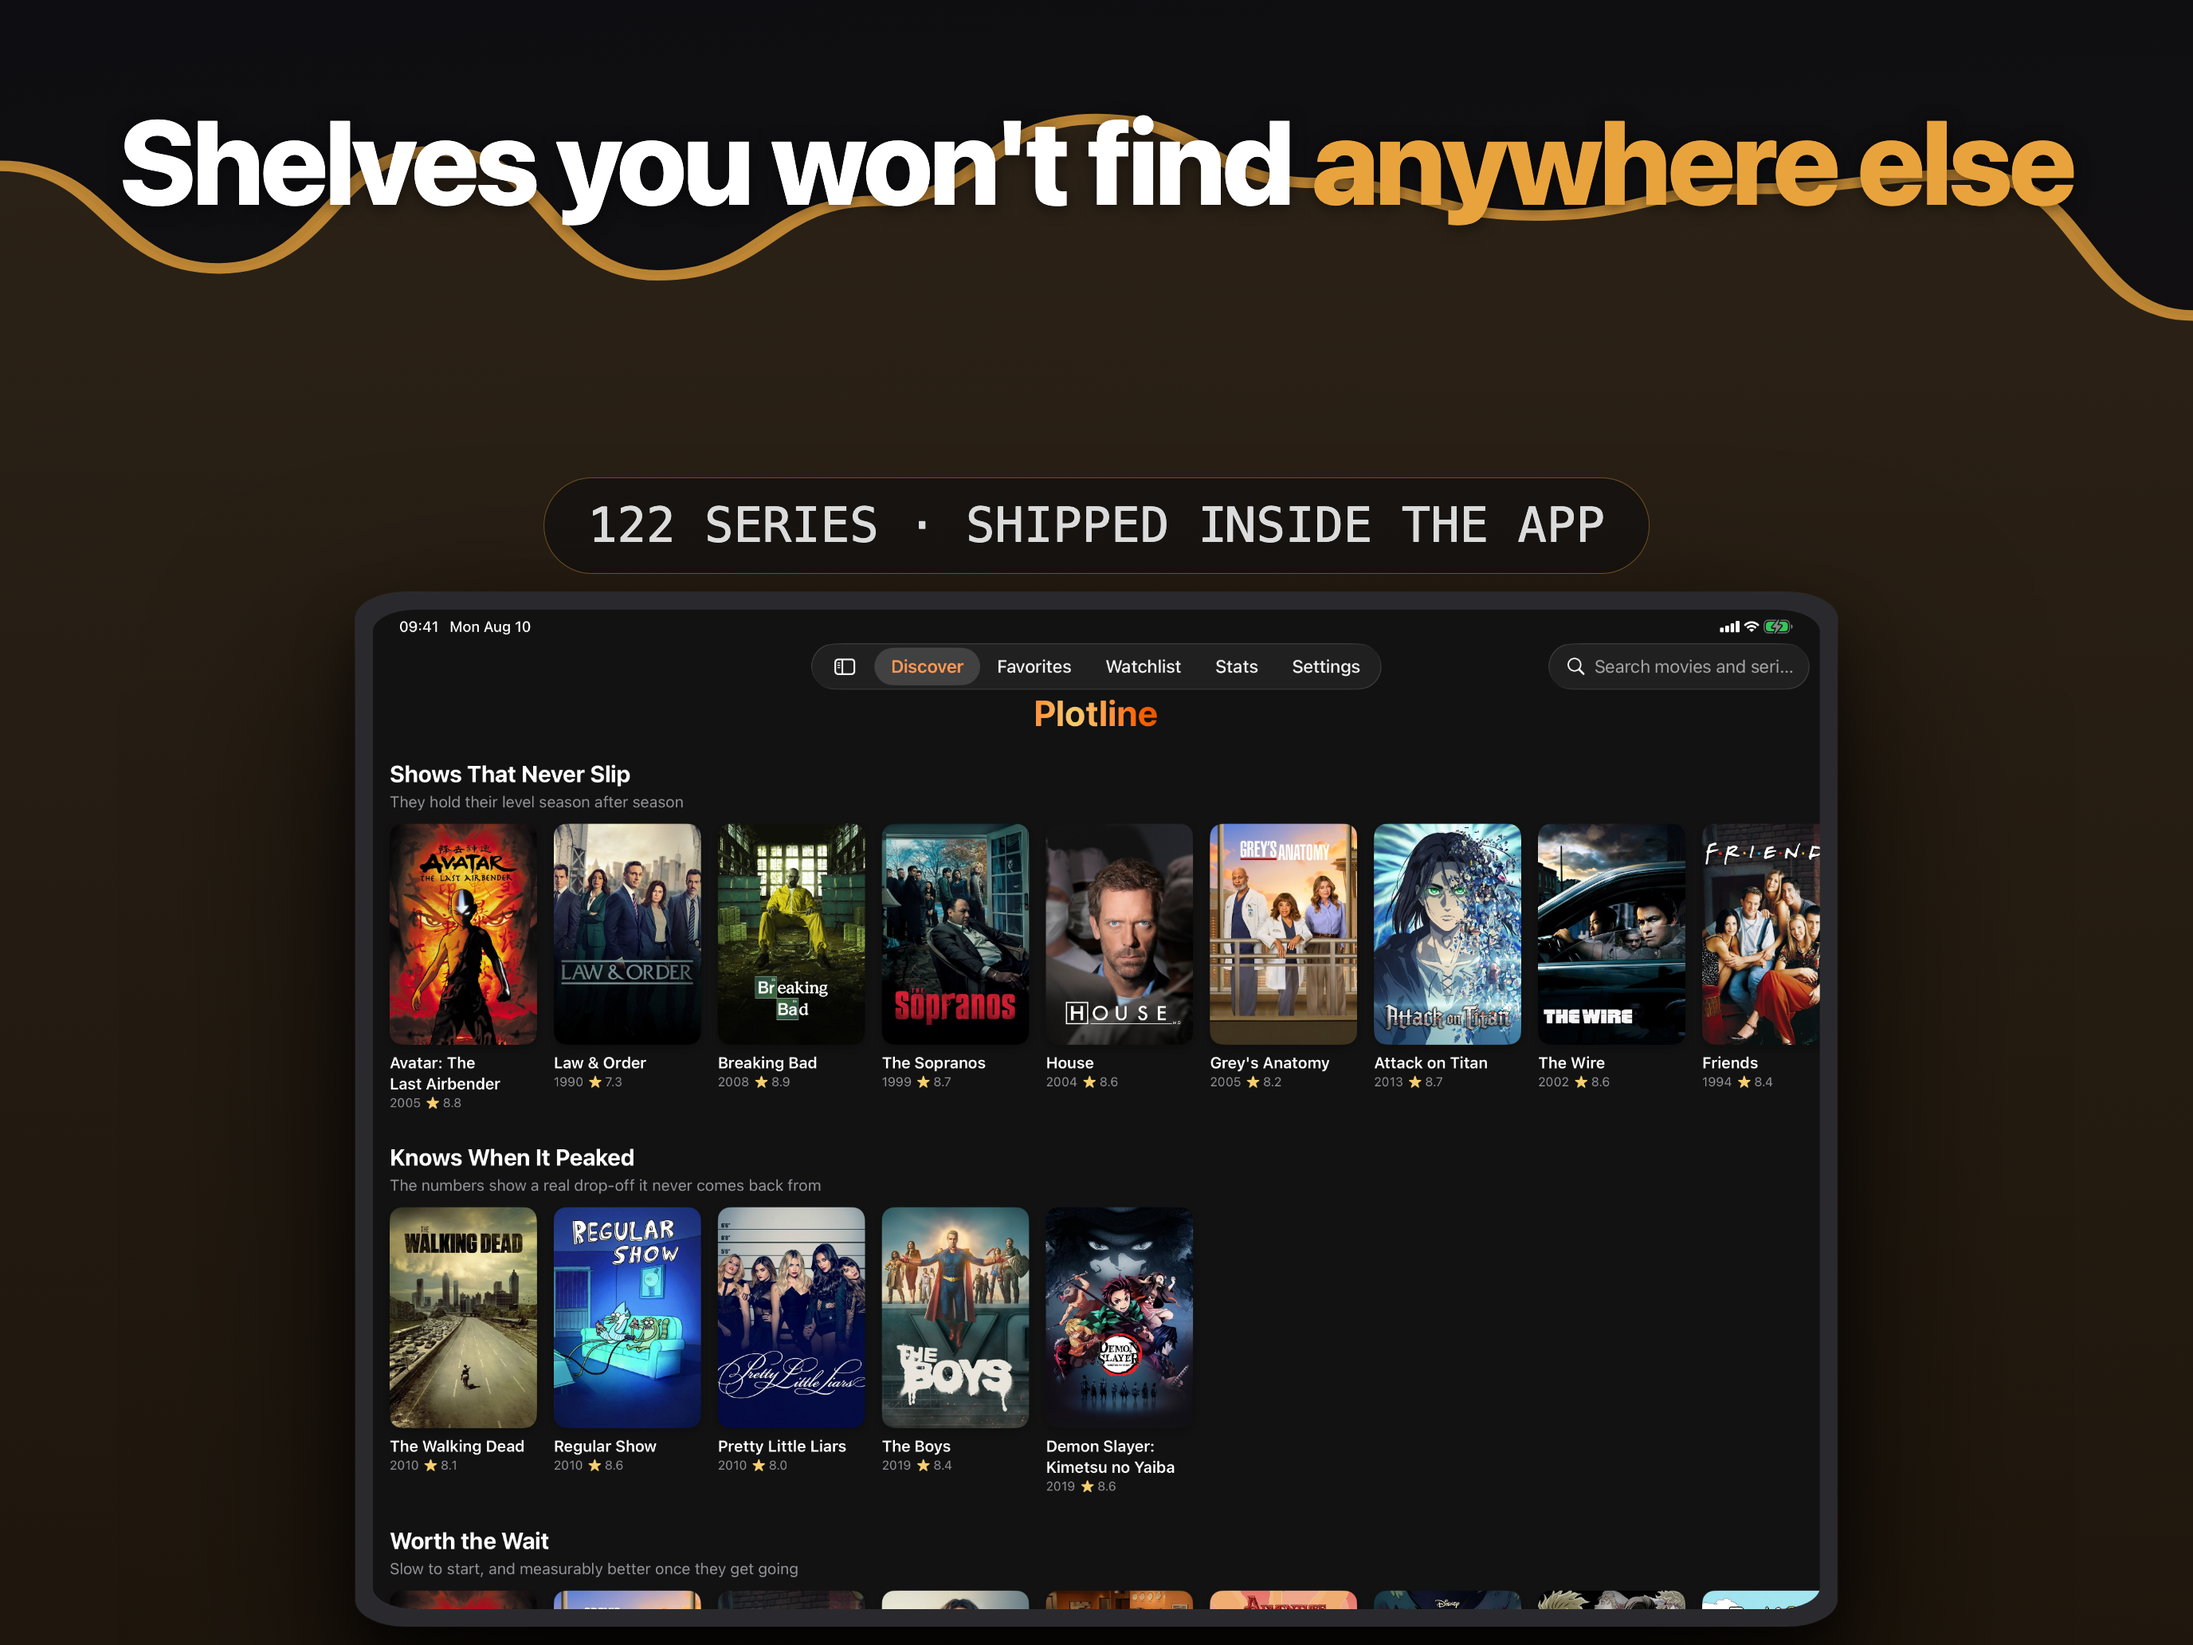
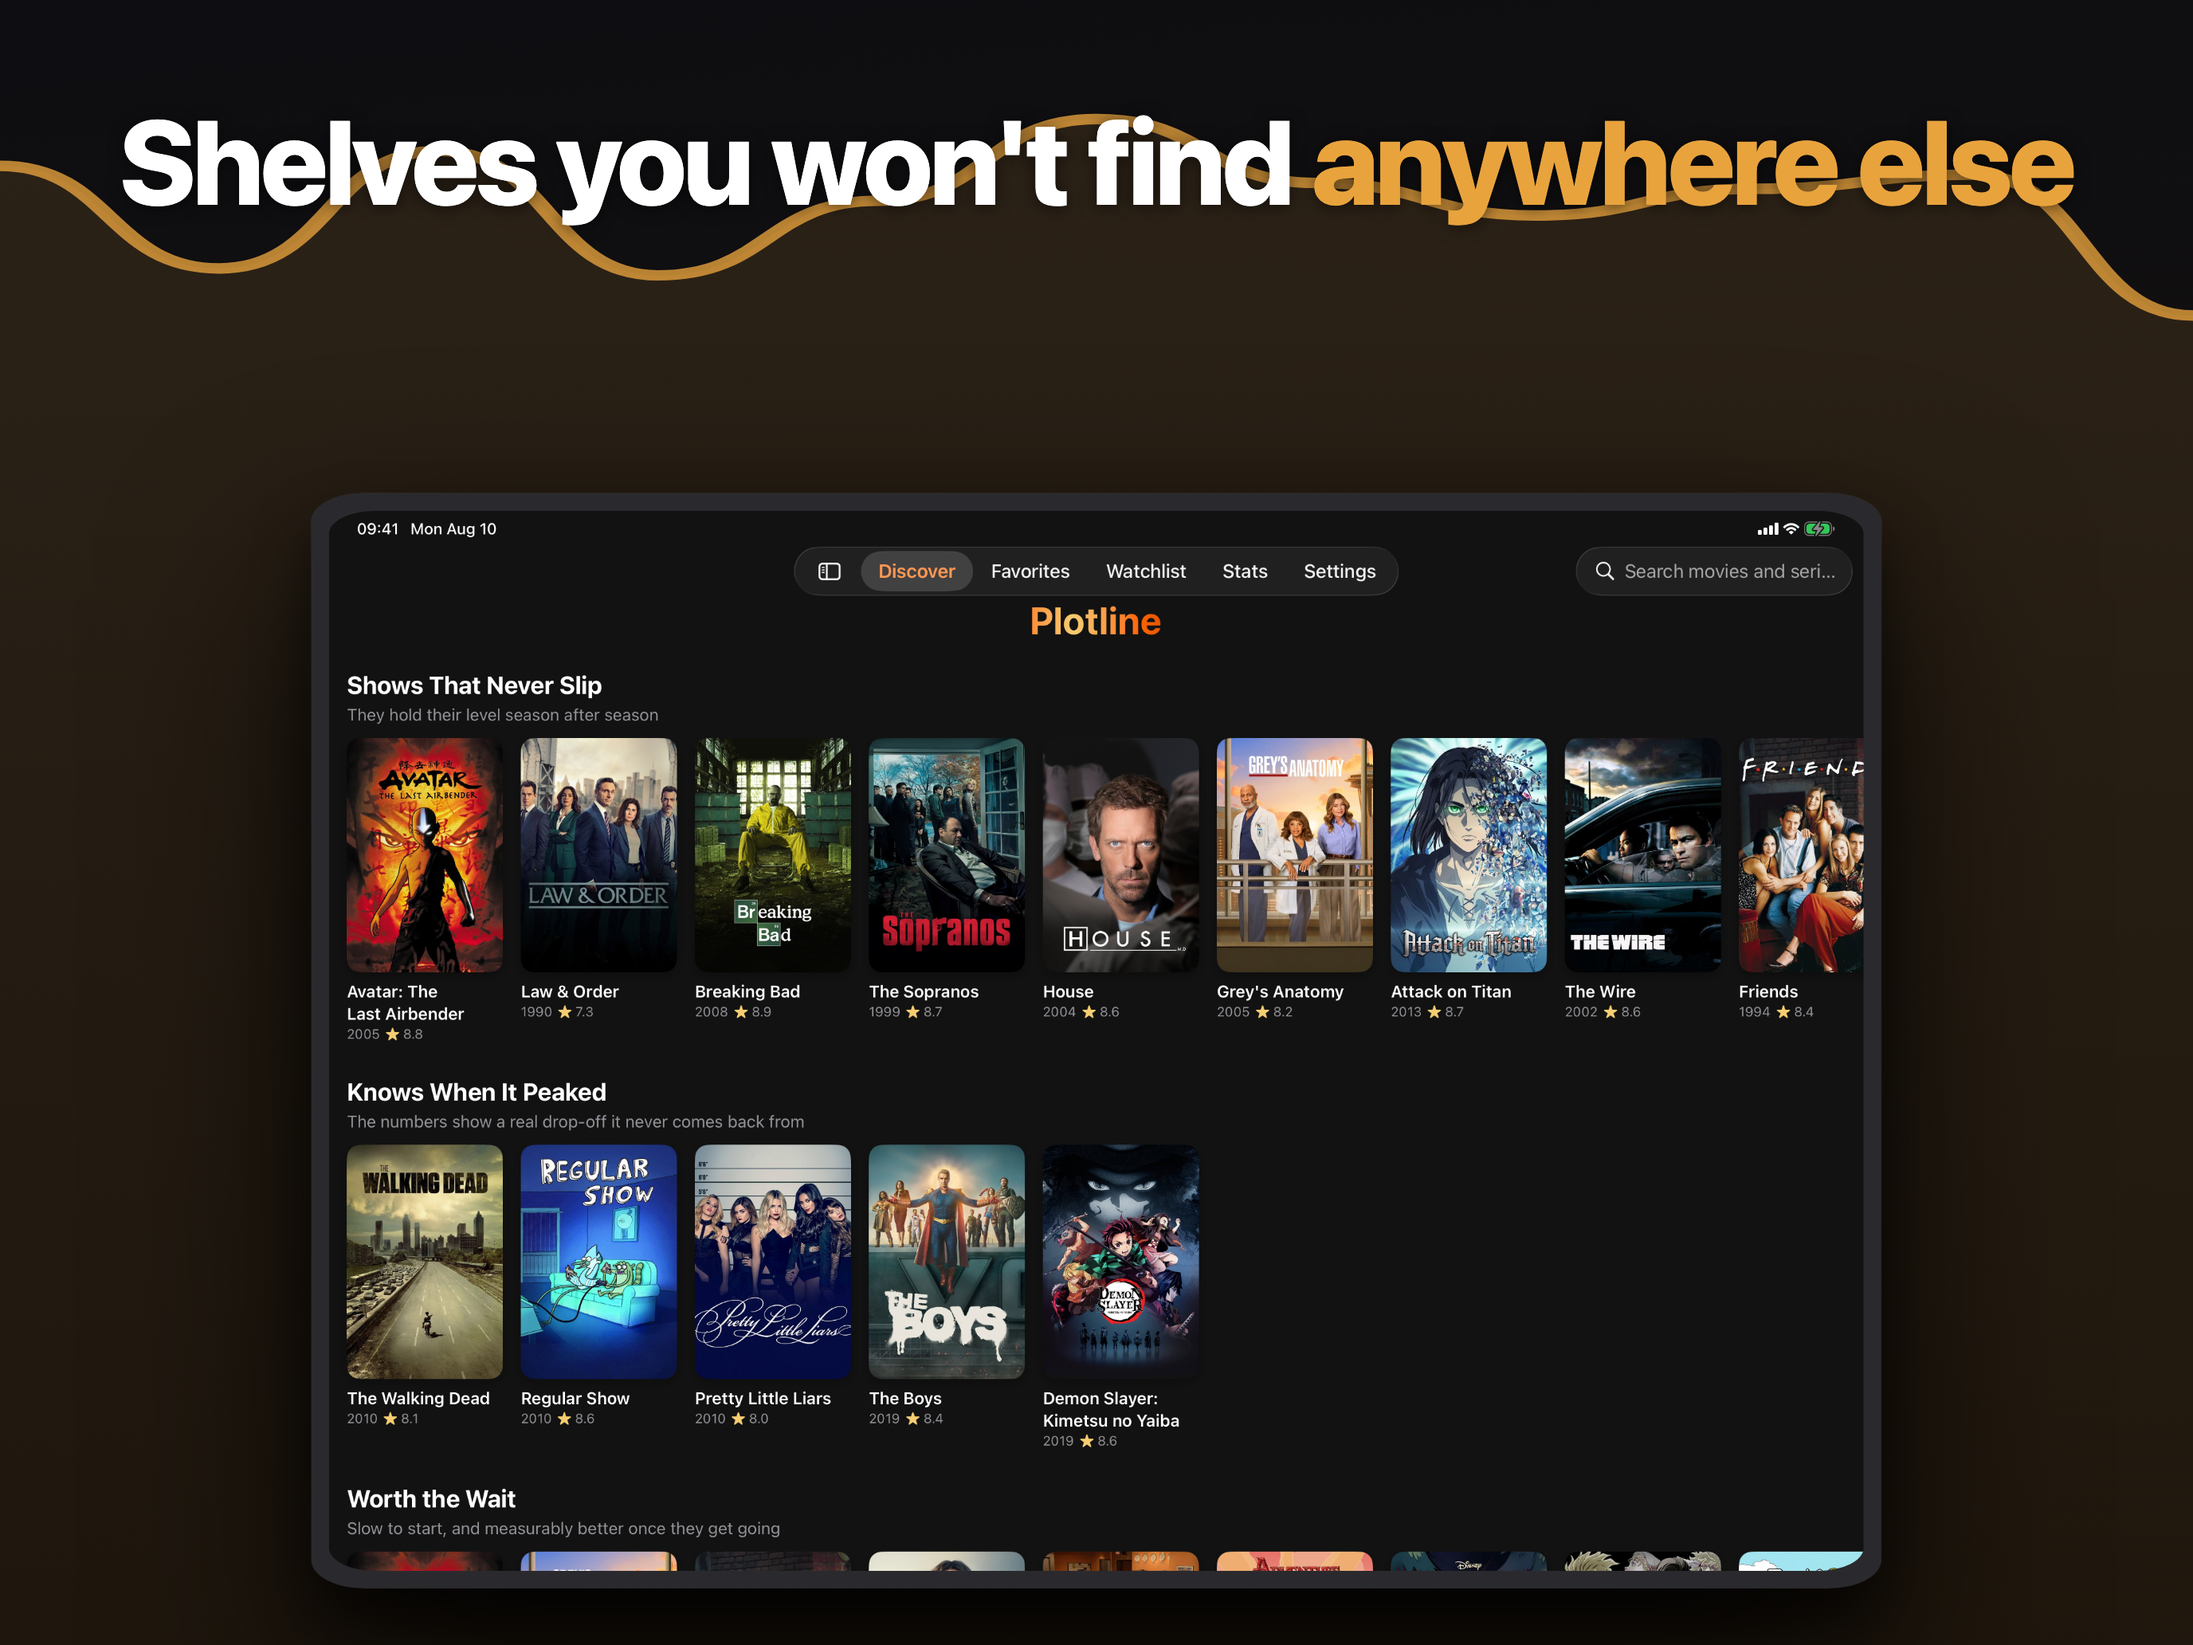
chore: drop the "122 SERIES" chip from frame 5 of both screenshot sheets
Frame 5 of iphone.html and ipad.html carried "122 SERIES · SHIPPED INSIDE
THE APP". Removing it takes its verification with it, and that was not
optional: render.sh grepped the sheet for that exact string and exited 1
when it found nothing, so leaving the check in place would have failed
every render rather than passing vacuously.

It was the only chip with a second, static source of truth in the repo —
PlotlineDataset.json's entry count — which is why it got a real comparison
while the other three get a by-eye warning. The comment where it used to
live now records that, and says to restore the check if a dataset-sourced
number ever goes back on a frame.

The iPad's frame 5 hero sat at top 36% / 66cqw only to start below that
chip. With the chip gone it takes frame 4's top 30% / 70cqw — what the
phone sheet already does for both of its single-device frames — instead of
leaving a dead band where the chip was. render.sh's hero-centre probe for
that frame moves 1370 -> 1284 to follow it; both constants were re-derived
from the sheet geometry (top% x 2064 + half the cqw-derived height) and
that derivation reproduces every other HERO_Y in the array exactly.

Only 05.png changed in each family, which is the evidence that nothing
drifted: both sheets render in a single pass with the curve and the device
scenes running across frame boundaries, so a composition change that
disturbed its neighbours would have rewritten more than one file.
[…]

Changed region(s): [[0.125, 0.2791, 0.875, 0.9922]]

diff --git a/Scripts/screenshots/ipad.html b/Scripts/screenshots/ipad.html
@@ -25,8 +25,7 @@ var FRAMES = [
   { head: 'Pick a season. Every episode, <em>plotted</em>',
     chip: 'SEASON 1 · AVG <b>8.4</b>' },
   { head: 'Every rated episode, <em>at a glance</em>', chip: null },
-  { head: 'Shelves you won\'t find <em>anywhere else</em>',
-    chip: '122 SERIES · SHIPPED INSIDE THE APP' },
+  { head: 'Shelves you won\'t find <em>anywhere else</em>', chip: null },
   { head: 'Where to watch it, <em>in your region</em>', chip: null },
   { head: 'Any two titles, <em>side by side</em>', chip: null },
   { head: 'Decade against decade,<br><em>charted</em>', chip: null }
@@ -90,13 +89,18 @@ for (var i = 0; i < 8; i++) {
   } else if (i >= 5) {
     out += stage(SCENE_B, SCENE_B_SHOTS, i - 5);
   } else {
-    // Frames 4 and 5: a single upright hero, no chip on 4 (more headroom,
-    // so it can sit a little higher and larger) and a chip on 5 (needs to
-    // start below it, same as the scene heroes).
-    var singleTop = (i === 3) ? 30 : 36;
-    var singleWidth = (i === 3) ? 70 : 66;
-    out += '<div class="device tablet" style="left:50%;top:' + singleTop + '%;width:' +
-           singleWidth + 'cqw;aspect-ratio:2752/1900;transform:translateX(-50%)">' +
+    // Frames 4 and 5: a single upright hero, same geometry for both, as on
+    // the phone sheet. Frame 5 used to sit lower and smaller (top 36%, 66cqw)
+    // to clear a "122 SERIES · SHIPPED INSIDE THE APP" chip; that chip is
+    // gone, so it takes frame 4's headroom instead of leaving a dead band
+    // where the chip was.
+    //
+    // render.sh samples a hard-coded hero-centre pixel per frame to prove the
+    // capture loaded, and those constants are derived from this geometry:
+    // top% x 2064 + (width_cqw x 2752 x 1900/2752)/2. Both frames now land on
+    // HERO_Y 1284 for this family. Move one, move the other.
+    out += '<div class="device tablet" style="left:50%;top:30%;width:70cqw;' +
+           'aspect-ratio:2752/1900;transform:translateX(-50%)">' +
            '<img src="../../screenshots/raw/ipad-13/0' + (i + 1) + '.png" alt=""></div>';
   }
   out += '<div class="headline">' + f.head + '</div>';

diff --git a/Scripts/screenshots/iphone.html b/Scripts/screenshots/iphone.html
@@ -23,8 +23,7 @@ var FRAMES = [
   { head: 'Pick a season.<br>Every episode,<br><em>plotted</em>',
     chip: 'SEASON 1 · AVG <b>8.4</b>' },
   { head: 'Every rated episode,<br><em>at a glance</em>', chip: null, centred: true },
-  { head: 'Shelves you won\'t<br>find <em>anywhere else</em>',
-    chip: '122 SERIES · SHIPPED INSIDE THE APP', centred: true },
+  { head: 'Shelves you won\'t<br>find <em>anywhere else</em>', chip: null, centred: true },
   { head: 'Where to watch it,<br><em>in your region</em>', chip: null },
   { head: 'Any two titles,<br><em>side by side</em>', chip: null },
   { head: 'Decade against decade,<br><em>charted</em>', chip: null }

diff --git a/CLAUDE.md b/CLAUDE.md
@@ -120,24 +120,27 @@ single HTML row, renders it in one Chrome pass, and cuts it up.
 rating curve run across frame boundaries; a sheet that is never separated cannot
 drift. Both widths — 10560×2868 and 22016×2064 — were measured to render whole.
 
-Three of the four marketing chips — Level/Consistency/Trajectory, Before/After,
+All three marketing chips — Level/Consistency/Trajectory, Before/After,
 Season/Avg — are transcribed from the capture beneath them, never from
 `PlotlineDataset.json`: the app recomputes analysis live when fresher episodes
 arrive, so the two can legitimately disagree, and a marketing chip that
 contradicts the screenshot next to it is the same defect as a verdict string
-claiming more than its predicate. The fourth, "122 SERIES · SHIPPED INSIDE THE
-APP," has no live capture to draw a number from — it is sourced from, and
-checked against, `PlotlineDataset.json`'s entry count instead (below).
+claiming more than its predicate. A fourth chip, "122 SERIES · SHIPPED INSIDE
+THE APP," sat on frame 5 and was the exception — no live capture to draw a
+number from, so it was sourced from and checked against
+`PlotlineDataset.json`'s entry count. It has been removed from both sheets,
+and its check with it. The same claim still appears in prose in
+`docs/app-review/` and `README.md`, where nothing verifies it.
 
 **What the pipeline checks, and what it does not.** `make.sh` and `render.sh`
 verify file counts, pixel dimensions, that the headline font actually loaded
-— not a system fallback — that each frame's hero device shows app content
-rather than an empty bezel or canvas gradient, and that the "122 SERIES"
-chip's count matches `PlotlineDataset.json`'s entry count. The other three
-chips (Level/Consistency/Trajectory, Before/After, Season/Avg) have no
-independent source to check against, so neither script compares them to
-anything; both print a warning to that effect once they finish successfully.
-Reading the sixteen finished frames before uploading is still a human step.
+— not a system fallback — and that each frame's hero device shows app content
+rather than an empty bezel or canvas gradient. **No chip is checked against
+anything.** All three are transcribed from a live capture neither script can
+recompute, so both print a warning to that effect once they finish
+successfully. Reading the sixteen finished frames before uploading is still a
+human step. If a chip sourced from the dataset is ever added back, restore the
+count check in `render.sh` with it — that drift is silent otherwise.
 
 **The README's banner is the same sheet, put back together.**
 `readme-strip.sh` joins a family's eight composed frames left to right — the
